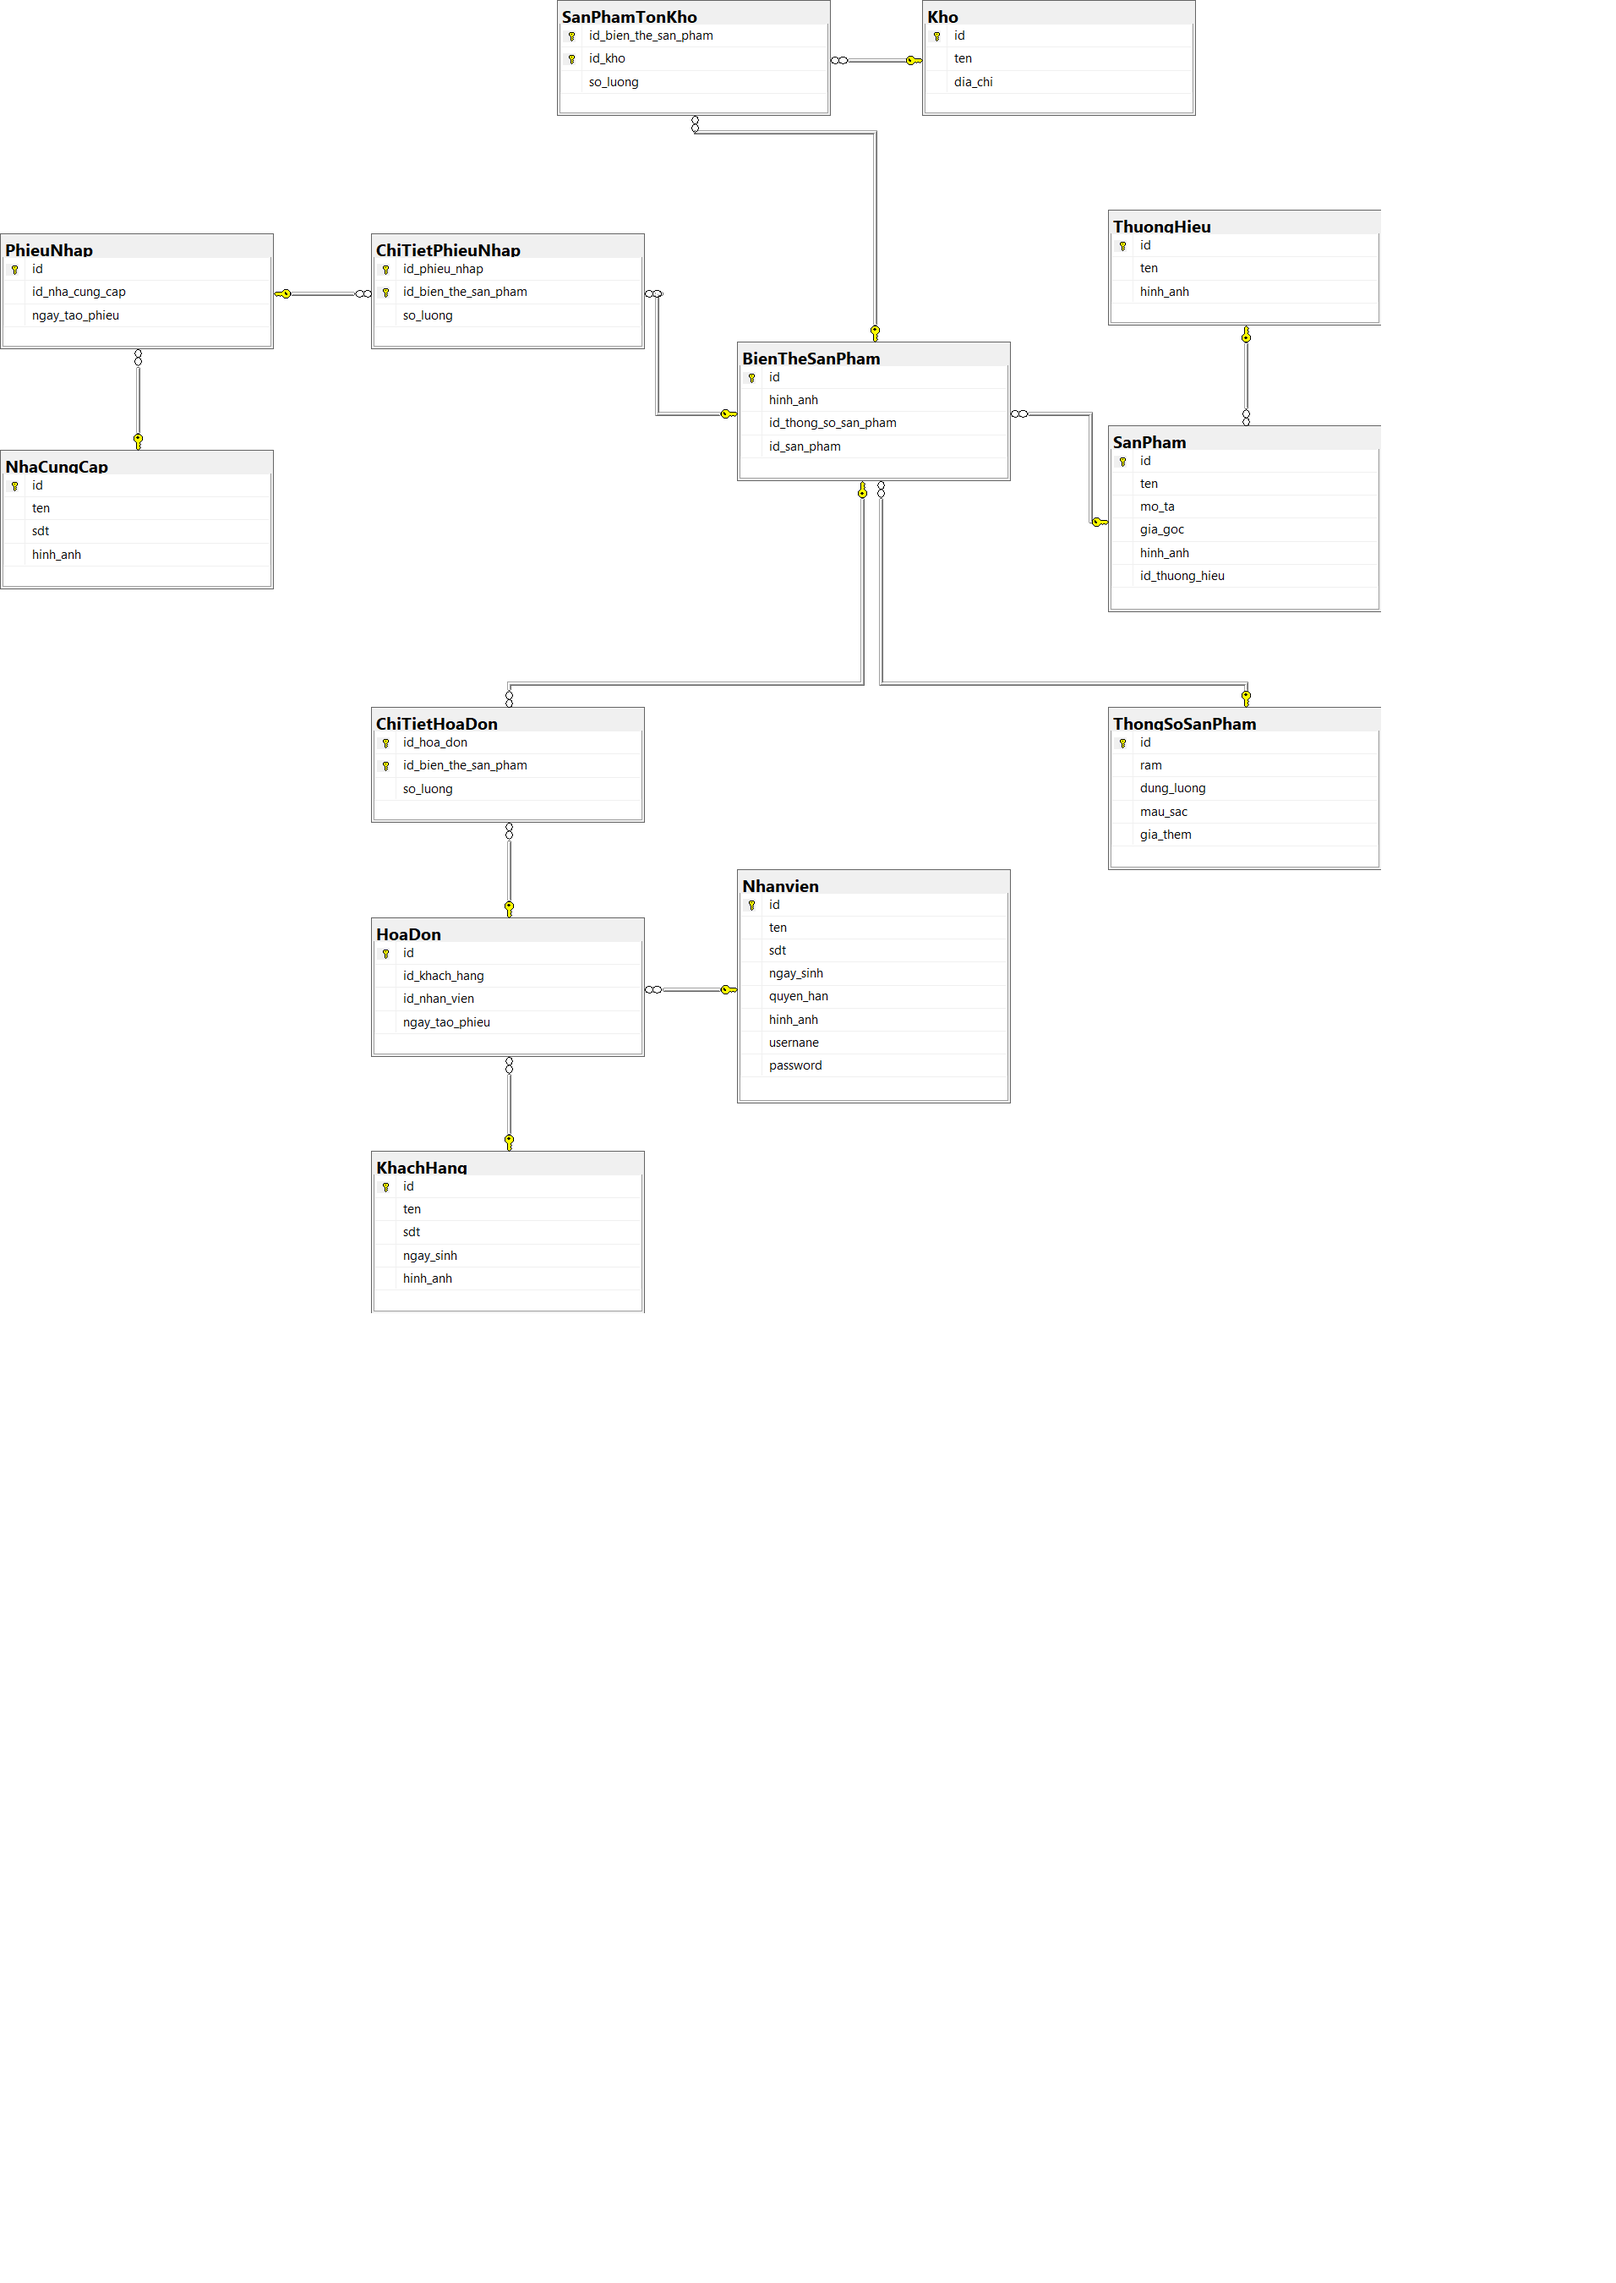
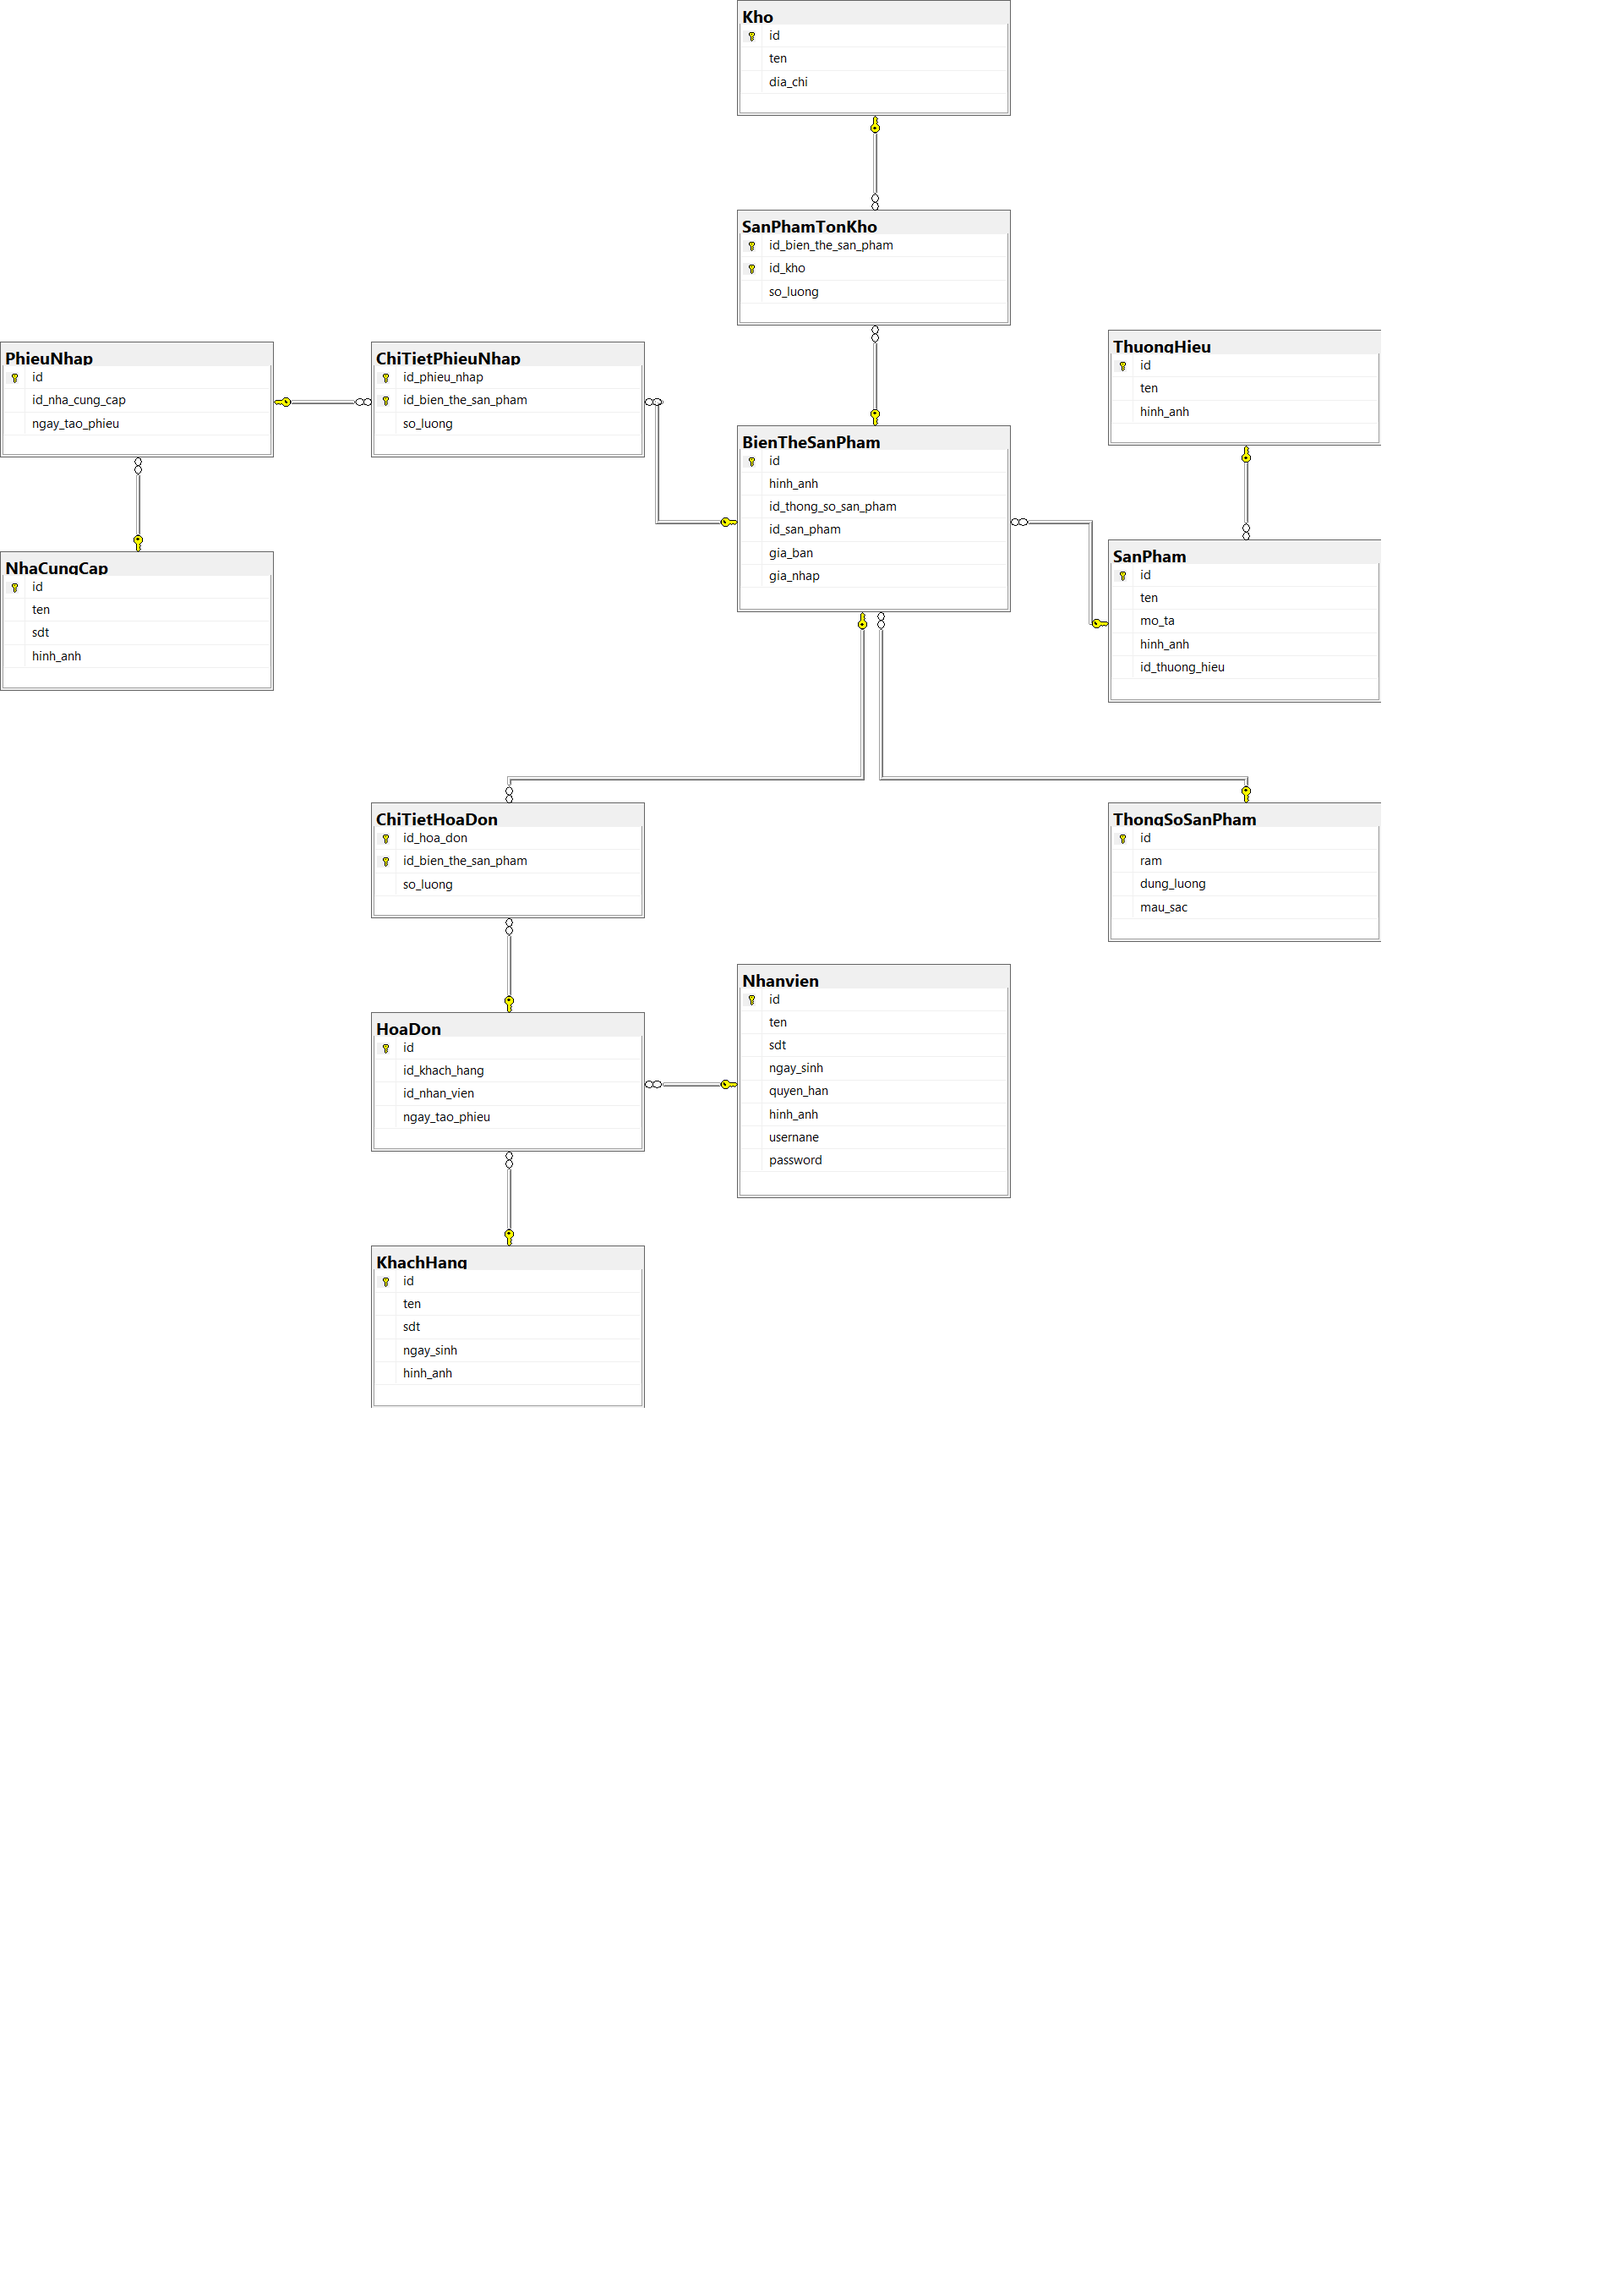
Update db.

diff --git a/README.md b/README.md
@@ -33,7 +33,6 @@ CREATE TABLE SanPham (
   id int NOT NULL Primary key,
   ten varchar(300) NOT NULL,
   mo_ta varchar(1000),
-  gia_goc int,
   hinh_anh varchar(300),
   id_thuong_hieu int,
   Constraint FK_thuong_hieu Foreign key (id_thuong_hieu) 
@@ -45,7 +44,6 @@ CREATE TABLE ThongSoSanPham (
   ram varchar(300),
   dung_luong varchar(300),
   mau_sac varchar(300),
-  gia_them int NOT NULL,
 )
 
 CREATE TABLE BienTheSanPham (
@@ -53,6 +51,8 @@ CREATE TABLE BienTheSanPham (
   hinh_anh varchar(300),
   id_thong_so_san_pham int NOT NULL,
   id_san_pham int NOT NULL,
+  gia_ban int NOT NULL,
+  gia_nhap int NOT NULL,
   Constraint FK_thongSoSanPham Foreign key (id_thong_so_san_pham)
   References ThongSoSanPham(id),
   Constraint FK_sanPham Foreign key (id_san_pham)
@@ -159,20 +159,20 @@ VALUES
   (1, 'Apple', null),
   (2, 'Samsung', null)
 
-INSERT INTO SanPham (id, ten, mo_ta, gia_goc, hinh_anh, id_thuong_hieu)
+INSERT INTO SanPham (id, ten, mo_ta, hinh_anh, id_thuong_hieu)
 VALUES
-  (1, 'Iphone 12 pro max', 'Iphone 12 pro max bla bla bla...', 10000000, null, 1),
-  (2, 'Iphone 11 pro max', 'Bla bla bla bla bla bla...', 9000000, null, 1)
+  (1, 'Iphone 12 pro max', 'Iphone 12 pro max bla bla bla...', null, 1),
+  (2, 'Iphone 11 pro max', 'Bla bla bla bla bla bla...', null, 1)
 
-INSERT INTO ThongSoSanPham (id, ram, dung_luong, mau_sac, gia_them)
+INSERT INTO ThongSoSanPham (id, ram, dung_luong, mau_sac)
 VALUES
-  (1, '8GB', '128GB', 'Xám', 0),
-  (2, '8GB', '128GB', 'Lam', 0)
+  (1, '8GB', '128GB', 'Xám'),
+  (2, '8GB', '128GB', 'Lam')
 
 
-INSERT INTO BienTheSanPham (id, hinh_anh, id_thong_so_san_pham, id_san_pham)
+INSERT INTO BienTheSanPham (id, hinh_anh, id_thong_so_san_pham, id_san_pham, gia_ban, gia_nhap)
 VALUES
-  (1, null, 1, 1),
-  (2, null, 1, 2)
+  (1, null, 1, 1, 100, 50),
+  (2, null, 1, 2, 100, 50)
 
 ```
